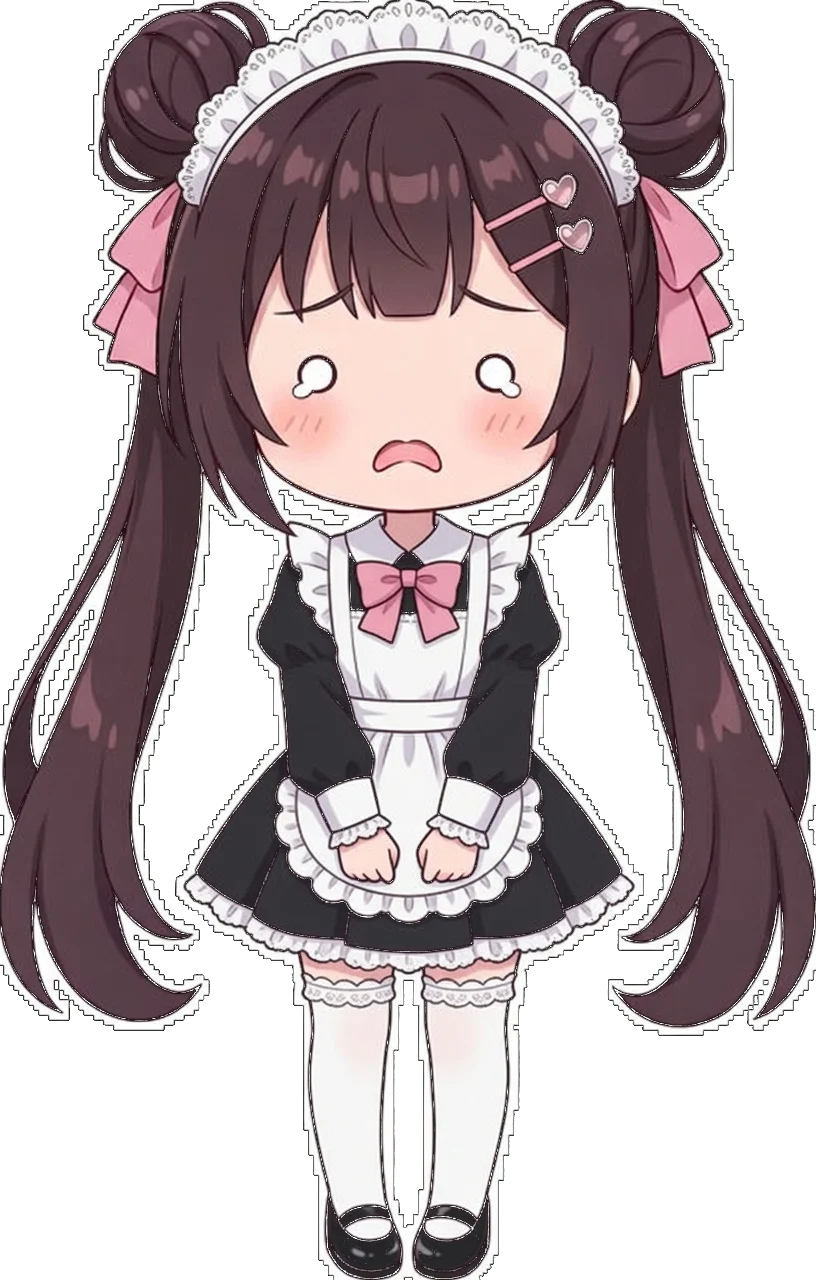
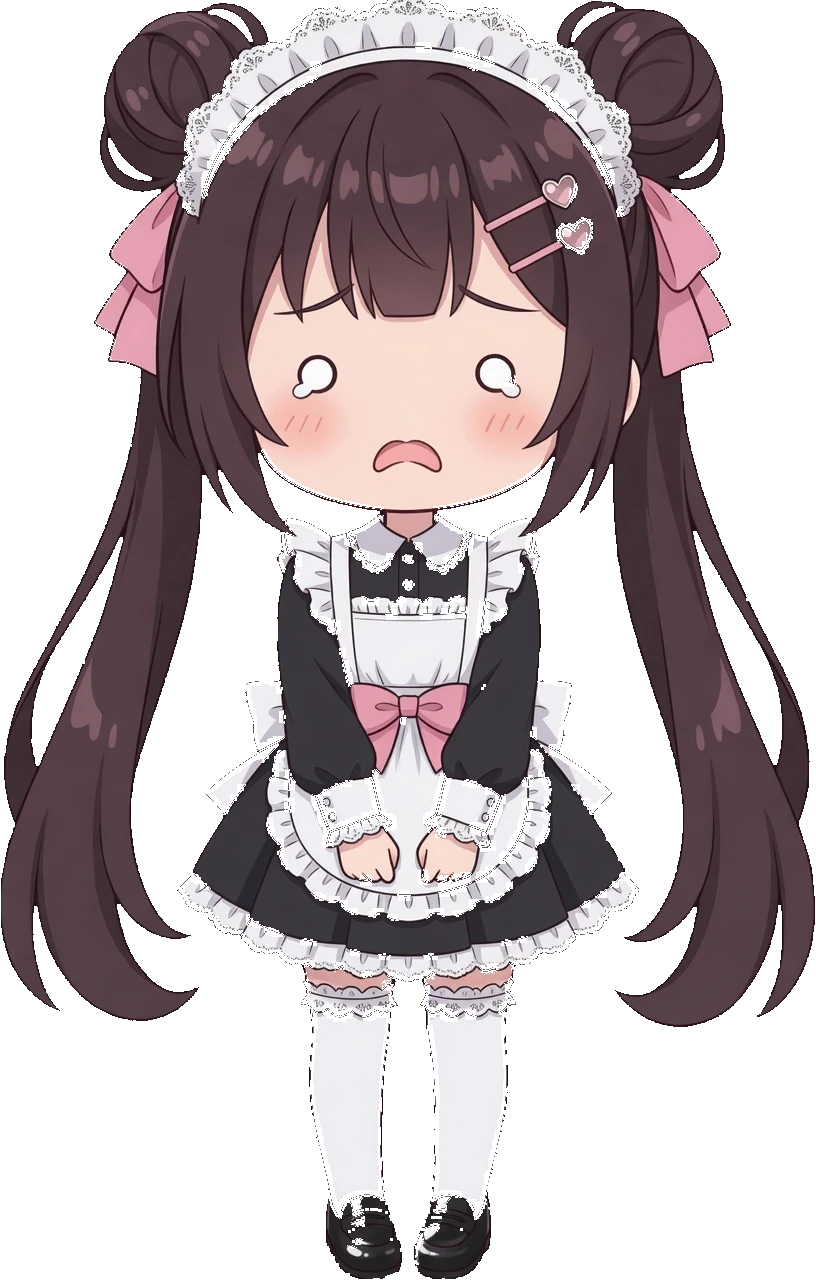
Maid skin: more poses, clean outlines, no fake fallbacks

diff --git a/plugins/saki-skin-maid/README.md b/plugins/saki-skin-maid/README.md
@@ -1,10 +1,11 @@
 # 女仆装
 
-Saki 形象扩展。启用后，面板里的表情立绘、桌面宠物、启动器图标和空状态插画都会换成同一套法式女仆装。
+Saki 形象扩展。只替换插件里**实际提供的**同路径 webp；没有的表情、桌宠动作和动画帧继续用面板原版。
 
-## 清单
+## 覆盖范围
 
-- `type`: `skin`
-- `skin.assetRoot`: `""`（按面板 `/assets/` 同路径覆盖）
+- 启动器 / 头像 / 趴桌 / 探头
+- 常用表情立绘
+- 桌宠待机、走路循环（walk_f1–f6）、坐、睡、跑、爬等
 
-把 webp 按原资源目录放下即可，面板会读取插件文件清单并自动替换全部 Saki 形象。
+未收录的资源（例如部分 6 帧表情动画、洗澡循环）会保持原校服图，避免用错姿态顶替。
